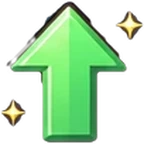
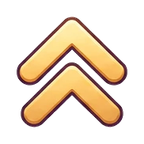
아래 메뉴 새 아이콘·디자인

diff --git a/sw.js b/sw.js
@@ -1,5 +1,5 @@
 // 별빛 냥법사 offline cache — version changes whenever any game file changes
-const VERSION = '68fc3ebb81';
+const VERSION = '4803bca3b4';
 const CACHE = 'cw-' + VERSION, EXTRA = 'cw-cdn';
 const LOCAL = ["./","index.html","manifest.webmanifest","js/num.js","js/data.js","js/economy.js","js/level.js","js/look.js","js/progress.js","js/stage-rewards.js","js/skills.js","js/gear.js","js/gacha.js","js/relics.js","js/costume.js","js/divine.js","js/training.js","js/dungeon.js","js/runes.js","js/titles.js","js/sigil.js","js/alchemy.js","js/packs.js","js/state.js","js/bestiary.js","js/rig-bodies.js","js/rig.js","js/staff-split.js","js/art.js","js/world.js","js/timescale.js","js/scene.js","js/vfx.js","js/fx3d.js","js/fx.js","js/fx-more.js","js/fx-beasts.js","js/sfx-map.js","js/sound.js","js/icons.js","js/icons-more.js","js/icons-skills.js","js/art-icons.js","js/art-items.js","js/design-cream.js","js/ui.js","js/main.js","art/b01.webp","art/b02.webp","art/b03.webp","art/b04.webp","art/b05.webp","art/b06.webp","art/b07.webp","art/b08.webp","art/b09.webp","art/b10.webp","art/b11.webp","art/b12.webp","art/b13.webp","art/b14.webp","art/b15.webp","art/b16.webp","art/b17.webp","art/b18.webp","art/b19.webp","art/b20.webp","art/b21.webp","art/b22.webp","art/b23.webp","art/b24.webp","art/b25.webp","art/b26.webp","art/b27.webp","art/b28.webp","art/b29.webp","art/b30.webp","art/b31.webp","art/b32.webp","art/b33.webp","art/b34.webp","art/b35.webp","art/b36.webp","art/b37.webp","art/b38.webp","art/b39.webp","art/b40.webp","art/b41.webp","art/b42.webp","art/b43.webp","art/b44.webp","art/b45.webp","art/b46.webp","art/b47.webp","art/b48.webp","art/b49.webp","art/b50.webp","art/b51.webp","art/b52.webp","art/b53.webp","art/b54.webp","art/b55.webp","art/b56.webp","art/b57.webp","art/b58.webp","art/b59.webp","art/b60.webp","art/b61.webp","art/b62.webp","art/b63.webp","art/b64.webp","art/b65.webp","art/b66.webp","art/b67.webp","art/b68.webp","art/b69.webp","art/b70.webp","art/b71.webp","art/b72.webp","art/b73.webp","art/b74.webp","art/b75.webp","art/b76.webp","art/b77.webp","art/b78.webp","art/b79.webp","art/b80.webp","art/beast-phoenix.webp","art/c01.webp","art/c02.webp","art/c03.webp","art/c04.webp","art/c05.webp","art/c06.webp","art/c07.webp","art/c08.webp","art/c09.webp","art/c10.webp","art/c11.webp","art/c12.webp","art/c13.webp","art/c14.webp","art/c15.webp","art/c16.webp","art/c17.webp","art/c18.webp","art/c19.webp","art/c20.webp","art/cos1.webp","art/cos10.webp","art/cos11.webp","art/cos12.webp","art/cos13.webp","art/cos14.webp","art/cos15.webp","art/cos16.webp","art/cos17.webp","art/cos18.webp","art/cos2.webp","art/cos3.webp","art/cos4.webp","art/cos5.webp","art/cos6.webp","art/cos7.webp","art/cos8.webp","art/cos9.webp","art/d01.webp","art/d02.webp","art/d03.webp","art/d04.webp","art/d05.webp","art/d06.webp","art/d07.webp","art/d08.webp","art/d09.webp","art/d10.webp","art/dv-charm-1.webp","art/dv-charm-2.webp","art/dv-charm-3.webp","art/dv-robe-1.webp","art/dv-robe-2.webp","art/dv-robe-3.webp","art/dv-staff-1.webp","art/dv-staff-2.webp","art/dv-staff-3.webp","art/f01.webp","art/f02.webp","art/f03.webp","art/f04.webp","art/f05.webp","art/f06.webp","art/f07.webp","art/f08.webp","art/f09.webp","art/f10.webp","art/fx-blackHole.webp","art/fx-chainLightning.webp","art/fx-elementNova.webp","art/fx-fireball-ball.webp","art/fx-fireball-blast.webp","art/fx-fireball.webp","art/fx-furBomb.webp","art/fx-iceStorm-shard.webp","art/fx-iceStorm.webp","art/fx-magicClaw.webp","art/fx-meteorRain-ripple.webp","art/fx-meteorRain-rock.webp","art/fx-meteorRain.webp","art/fx-moonLaser.webp","art/fx-solarBurst.webp","art/fx-sparkRing.webp","art/fx-starShot-burst.webp","art/fx-starShot-star.webp","art/fx-starShot.webp","art/g-belt.webp","art/g-ear.webp","art/g-hat.webp","art/g-necklace.webp","art/g-ring.webp","art/g-robe.webp","art/g-staff.webp","art/g01.webp","art/g02.webp","art/g03.webp","art/g04.webp","art/g05.webp","art/g06.webp","art/g07.webp","art/g08.webp","art/g09.webp","art/g10.webp","art/gi-belt-1.webp","art/gi-belt-2.webp","art/gi-belt-3.webp","art/gi-belt-4.webp","art/gi-belt-5.webp","art/gi-ear-1.webp","art/gi-ear-2.webp","art/gi-ear-3.webp","art/gi-ear-4.webp","art/gi-ear-5.webp","art/gi-hat-1.webp","art/gi-hat-2.webp","art/gi-hat-3.webp","art/gi-hat-4.webp","art/gi-hat-5.webp","art/gi-necklace-1.webp","art/gi-necklace-2.webp","art/gi-necklace-3.webp","art/gi-necklace-4.webp","art/gi-necklace-5.webp","art/gi-ring-1.webp","art/gi-ring-2.webp","art/gi-ring-3.webp","art/gi-ring-4.webp","art/gi-ring-5.webp","art/gi-robe-1.webp","art/gi-robe-2.webp","art/gi-robe-3.webp","art/gi-robe-4.webp","art/gi-robe-5.webp","art/gi-staff-1.webp","art/gi-staff-2.webp","art/gi-staff-3.webp","art/gi-staff-4.webp","art/gi-staff-5.webp","art/hero-cheese.webp","art/hero.webp","art/i01.webp","art/i02.webp","art/i03.webp","art/i04.webp","art/i05.webp","art/ic-gem.webp","art/ic-gold.webp","art/ic-rune.webp","art/ic-sigil.webp","art/ic-xp.webp","art/k01.webp","art/k02.webp","art/k03.webp","art/k04.webp","art/k05.webp","art/k06.webp","art/k07.webp","art/k08.webp","art/k09.webp","art/k10.webp","art/l06.webp","art/l07.webp","art/l08.webp","art/l09.webp","art/l10.webp","art/m101.webp","art/m102.webp","art/m103.webp","art/m104.webp","art/m105.webp","art/m106.webp","art/m107.webp","art/m108.webp","art/m109.webp","art/m110.webp","art/m111.webp","art/m112.webp","art/m113.webp","art/m114.webp","art/m115.webp","art/m116.webp","art/m117.webp","art/m118.webp","art/m119.webp","art/m120.webp","art/m121.webp","art/m122.webp","art/m123.webp","art/m124.webp","art/m125.webp","art/m126.webp","art/m127.webp","art/m128.webp","art/m129.webp","art/m130.webp","art/m131.webp","art/m132.webp","art/m133.webp","art/m134.webp","art/m135.webp","art/m136.webp","art/m137.webp","art/m138.webp","art/m139.webp","art/m140.webp","art/o01.webp","art/o02.webp","art/o03.webp","art/o04.webp","art/o05.webp","art/o06.webp","art/o07.webp","art/o08.webp","art/o09.webp","art/o10.webp","art/rl-bookmark.webp","art/rl-catEye.webp","art/rl-clawRing.webp","art/rl-cometShard.webp","art/rl-dawnCrystal.webp","art/rl-galaxyDaggers.webp","art/rl-grassCharm.webp","art/rl-hourglass.webp","art/rl-hunterBadge.webp","art/rl-kingScepter.webp","art/rl-moonBell.webp","art/rl-pawHammer.webp","art/rl-piggyBank.webp","art/rl-sleepyPillow.webp","art/rl-starFeather.webp","art/rl-windChime.webp","art/rn-rBolt-1.webp","art/rn-rBolt-2.webp","art/rn-rBolt-3.webp","art/rn-rComet-1.webp","art/rn-rComet-2.webp","art/rn-rComet-3.webp","art/rn-rDark-1.webp","art/rn-rDark-2.webp","art/rn-rDark-3.webp","art/rn-rEarth-1.webp","art/rn-rEarth-2.webp","art/rn-rEarth-3.webp","art/rn-rFire-1.webp","art/rn-rFire-2.webp","art/rn-rFire-3.webp","art/rn-rLight-1.webp","art/rn-rLight-2.webp","art/rn-rLight-3.webp","art/rn-rNebula-1.webp","art/rn-rNebula-2.webp","art/rn-rNebula-3.webp","art/rn-rOrigin-1.webp","art/rn-rOrigin-2.webp","art/rn-rOrigin-3.webp","art/rn-rWave-1.webp","art/rn-rWave-2.webp","art/rn-rWave-3.webp","art/rn-rWind-1.webp","art/rn-rWind-2.webp","art/rn-rWind-3.webp","art/s01.webp","art/s02.webp","art/s03.webp","art/s04.webp","art/s05.webp","art/s06.webp","art/s07.webp","art/s08.webp","art/s09.webp","art/s10.webp","art/sg-bolt-0.webp","art/sg-bolt-1.webp","art/sg-bolt-10.webp","art/sg-bolt-2.webp","art/sg-bolt-3.webp","art/sg-bolt-4.webp","art/sg-bolt-5.webp","art/sg-bolt-6.webp","art/sg-bolt-7.webp","art/sg-bolt-8.webp","art/sg-bolt-9.webp","art/sg-paw-0.webp","art/sg-paw-1.webp","art/sg-paw-10.webp","art/sg-paw-2.webp","art/sg-paw-3.webp","art/sg-paw-4.webp","art/sg-paw-5.webp","art/sg-paw-6.webp","art/sg-paw-7.webp","art/sg-paw-8.webp","art/sg-paw-9.webp","art/sk-ballLightning.webp","art/sk-blackHole.webp","art/sk-chainLightning.webp","art/sk-cometStrike.webp","art/sk-constellation.webp","art/sk-coronaRing.webp","art/sk-crescentWave.webp","art/sk-darkStar.webp","art/sk-elementNova.webp","art/sk-elementStorm.webp","art/sk-elementWheel.webp","art/sk-featherRain.webp","art/sk-fireball.webp","art/sk-flamePillar.webp","art/sk-flameWave.webp","art/sk-frostNova.webp","art/sk-furBomb.webp","art/sk-glacierSpikes.webp","art/sk-gravityCrush.webp","art/sk-iceLance.webp","art/sk-iceStorm.webp","art/sk-inferno.webp","art/sk-magicClaw.webp","art/sk-meteorRain.webp","art/sk-moonFall.webp","art/sk-moonLaser.webp","art/sk-moonOrbs.webp","art/sk-pawStamp.webp","art/sk-phoenixDive.webp","art/sk-phoenixWings.webp","art/sk-prismBeam.webp","art/sk-rebirthFlame.webp","art/sk-solarBurst.webp","art/sk-sparkRing.webp","art/sk-starBarrage.webp","art/sk-starDust.webp","art/sk-starShot.webp","art/sk-stormCloud.webp","art/sk-sunArrows.webp","art/sk-sunSpear.webp","art/sk-thunderStrike.webp","art/sk-voidRift.webp","art/sk-yarnBall.webp","art/tr-alchemy-cauldron.webp","art/tr-currency-gold.webp","art/tr-currency-mana.webp","art/tr-growth-alpha-crit.webp","art/tr-growth-alpha-dmg.webp","art/tr-growth-atk.webp","art/tr-growth-crit-dmg.webp","art/tr-growth-crit.webp","art/tr-growth-gold.webp","art/tr-growth-hyper-crit.webp","art/tr-growth-mastery.webp","art/tr-growth-mega-crit.webp","art/tr-growth-mega-dmg.webp","art/tr-growth-speed.webp","art/tr-growth-super-crit.webp","art/tr-growth-ultimate-crit.webp","art/tr-growth-ultimate-dmg.webp","art/tr-growth-ultra-crit.webp","art/tr-mana-circle.webp","art/tr-mark-book.webp","art/tr-mark-claw.webp","art/tr-mark-comet.webp","art/tr-mark-crown.webp","art/tr-mark-moon.webp","art/tr-mark-star.webp","art/tr-menu-training.webp","art/tr-pk-growth-arcane.webp","art/tr-pk-growth-catEye.webp","art/tr-pk-growth-doomClaw.webp","art/tr-pk-growth-elemRule.webp","art/tr-pk-growth-haste.webp","art/tr-pk-growth-judge.webp","art/tr-pk-growth-manaBurst.webp","art/tr-pk-growth-origin.webp","art/tr-pk-growth-resonance.webp","art/tr-pk-growth-rift.webp","art/tr-pk-mark-mArcane.webp","art/tr-pk-mark-mJudge.webp","art/tr-pk-pack-dailyGem.webp","art/tr-pk-pack-gear10.webp","art/tr-pk-pack-gear100.webp","art/tr-pk-pack-gear30.webp","art/tr-pk-pack-goldL.webp","art/tr-pk-pack-goldS.webp","art/tr-pk-pack-grow.webp","art/tr-pk-pack-potion.webp","art/tr-pk-pack-tier10.webp","art/tr-pk-pack-tier5.webp","art/tr-pk-pack-tier8.webp","art/tr-pk-talent-tManaBurst.webp","art/tr-pk-talent-tOrigin.webp","art/tr-pk-talent-tRift.webp","art/tr-potion-luck.webp","art/tr-potion-rage.webp","art/tr-potion-wisdom.webp","art/tr-rank-star.webp","art/tr-state-lock.webp","art/tr-talent-boss-hunter.webp","art/tr-talent-curious-eyes.webp","art/tr-talent-golden-whiskers.webp","art/tr-talent-mana-focus.webp","art/tr-talent-sharp-claws.webp","art/tr-talent-surge.webp","art/tr-talent-weak-point.webp","art/ui-card-back.webp","art/ui-cauldron.webp","art/ui-chest-closed.webp","art/ui-chest-open.webp","art/ui-circle.webp","art/ui-dungeon-gem.webp","art/ui-dungeon-gold.webp","art/ui-dungeon-mana.webp","art/ui-dungeon-rune.webp","art/ui-gacha.webp","art/ui-lock.webp","art/ui-map-lock.webp","art/ui-map-open.webp","art/ui-map.webp","art/ui-mark-mClaw.webp","art/ui-mark-mComet.webp","art/ui-mark-mCrown.webp","art/ui-mark-mMoon.webp","art/ui-mark-mStar.webp","art/ui-paw.webp","art/ui-potion-luck.webp","art/ui-potion-rage.webp","art/ui-potion-wisdom.webp","art/ui-rune-leaf.webp","art/ui-rune-rDark.webp","art/ui-rune-rEarth.webp","art/ui-rune-rFire.webp","art/ui-rune-rLight.webp","art/ui-rune-rWave.webp","art/ui-rune-rWind.webp","art/ui-tab-battle.webp","art/ui-tab-dungeon.webp","art/ui-tab-gacha.webp","art/ui-tab-gear.webp","art/ui-tab-more.webp","art/ui-tab-skill.webp","art/ui-tab-up.webp","art/ui-talent-room.webp","art/ui-talent-tBoss.webp","art/ui-talent-tCrit.webp","art/ui-talent-tSkill.webp","art/ui-welcome-cat.webp","art/v01.webp","art/v02.webp","art/v03.webp","art/v04.webp","art/v05.webp","art/v06.webp","art/v07.webp","art/v08.webp","art/v09.webp","art/v10.webp","sfx/beam-1.m4a","sfx/beam-2.m4a","sfx/beam-3.m4a","sfx/bigboom-1.m4a","sfx/bigboom-2.m4a","sfx/bolt-1.m4a","sfx/bolt-2.m4a","sfx/bolt-3.m4a","sfx/bolt-4.m4a","sfx/bolt-5.m4a","sfx/boom-1.m4a","sfx/boom-2.m4a","sfx/boom-3.m4a","sfx/boom-4.m4a","sfx/boom-5.m4a","sfx/claw-1.m4a","sfx/claw-2.m4a","sfx/claw-3.m4a","sfx/fire-1.m4a","sfx/fire-2.m4a","sfx/fire-3.m4a","sfx/fire-4.m4a","sfx/fire-5.m4a","sfx/hum-1.m4a","sfx/hum-2.m4a","sfx/ice-1.m4a","sfx/ice-2.m4a","sfx/ice-3.m4a","sfx/ice-4.m4a","sfx/ice-5.m4a","sfx/pop-1.m4a","sfx/pop-2.m4a","sfx/pop-3.m4a","sfx/punch-1.m4a","sfx/punch-2.m4a","sfx/punch-3.m4a","sfx/shatter-1.m4a","sfx/shatter-2.m4a","sfx/shatter-3.m4a","sfx/shimmer-1.m4a","sfx/shimmer-2.m4a","sfx/shimmer-3.m4a","sfx/tap-1.m4a","sfx/tap-2.m4a","sfx/tap-3.m4a","sfx/thud-1.m4a","sfx/thud-2.m4a","sfx/thud-3.m4a","sfx/water-1.m4a","sfx/water-2.m4a","sfx/water-3.m4a","sfx/whoosh-1.m4a","sfx/whoosh-2.m4a","sfx/whoosh-3.m4a","sfx/zap-1.m4a","sfx/zap-2.m4a","sfx/zap-3.m4a","icons/icon-192.png","icons/icon-512.png","icons/apple-touch-icon.png"];
 const THREE = 'https://cdnjs.cloudflare.com/ajax/libs/three.js/r128/three.min.js';

diff --git a/index.html b/index.html
@@ -1384,6 +1384,18 @@ img.ico.pic{object-fit:contain;-webkit-user-drag:none;user-select:none}
 .bagtop .pnote{display:flex;align-items:center;justify-content:center;gap:8px;margin-top:2px;padding-top:9px;border-top:1.5px solid #E2D4BE;font:700 12px/1.5 var(--body);color:#6f6356}
 .bagtop .pnote .plocknote{width:24px;height:24px;flex:none}
 .bagtop .pcost{white-space:nowrap}.bagtop .pcost .gem{display:inline-block;width:14px;height:14px;vertical-align:-2px;margin-right:2px}
+/* bottom menu (2026-11-15): after the "Navigation icon redesign" picture the user sent: cream bar with rounded top,
+   seven equal columns, the painted icons at the same size, dark brown labels, the chosen one plum with a gold line under it */
+:root{--tabh:58px}
+#tabs{gap:0;padding:6px max(6px,env(safe-area-inset-right,0px)) max(4px,calc(env(safe-area-inset-bottom,0px) - 14px)) max(6px,env(safe-area-inset-left,0px));background:#FCF6EE;border-radius:22px 22px 0 0;box-shadow:0 -1.5px 0 #EADCC6,0 -6px 18px rgba(80,55,40,.14)}
+#tabs::before{display:none}
+#tabs button{display:flex;flex-direction:column;align-items:center;justify-content:flex-start;gap:2px;min-height:52px;padding:0;border-radius:0;background:none;font:700 11px/1.15 var(--body);letter-spacing:-.02em;color:#4b3b35;position:relative}
+#tabs img.ico{width:32px;height:32px;transform:none;filter:drop-shadow(0 1.5px 1px rgba(80,55,40,.22))}
+#tabs button[aria-selected=true]{color:#6a2c6e;background:none}
+#tabs button[aria-selected=true] img.ico{transform:none;filter:drop-shadow(0 1.5px 1px rgba(80,55,40,.22))}
+#tabs button::after{content:'';position:absolute;left:50%;bottom:1px;width:30px;height:3px;margin-left:-15px;border-radius:3px;background:transparent}
+#tabs button[aria-selected=true]::after{left:50%;right:auto;background:#E3B24E}
+#tabs button span{display:block;padding-bottom:7px}
 </style>
 
 <div id="topcap" aria-hidden="true"></div>

diff --git a/js/design-cream.js b/js/design-cream.js
@@ -18,7 +18,6 @@
     pack: { dailyGem: 'pk-pack-dailyGem', goldS: 'pk-pack-goldS', goldL: 'pk-pack-goldL', potion: 'pk-pack-potion', grow: 'pk-pack-grow',
       gear10: 'pk-pack-gear10', gear30: 'pk-pack-gear30', gear100: 'pk-pack-gear100', tier5: 'pk-pack-tier5', tier8: 'pk-pack-tier8', tier10: 'pk-pack-tier10' },
     potion: { rage: 'potion-rage', luck: 'potion-luck', wisdom: 'potion-wisdom' },
-    tab: { up: 'menu-training' },
     cur: { mana: 'currency-mana' },
     pic: { lock: 'state-lock', cauldron: 'alchemy-cauldron' }
   };
@@ -76,7 +75,7 @@
   var CW = root.CW, I = CW && CW.ICO; if (!I) return;
   var B = CW.ART_BASE || 'art/';
   function img(name, cls) { return '<img class="ico pic ' + cls + '" src="' + B + 'tr-' + name + '.webp" alt="" draggable="false">'; }
-  var stat0 = I.stat, misc0 = I.misc, cur0 = I.cur, pic0 = I.pic, MISC = ['talent', 'mark', 'potion', 'tab', 'pack'];
+  var stat0 = I.stat, misc0 = I.misc, cur0 = I.cur, pic0 = I.pic, MISC = ['talent', 'mark', 'potion', 'pack'];
   I.stat = function (k) { return MAP.stat[k] ? img(MAP.stat[k], 'imisc tr') : stat0(k); };
   I.misc = function (cat, id) { return MISC.indexOf(cat) >= 0 && MAP[cat][id] ? img(MAP[cat][id], 'imisc tr p-' + cat) : misc0(cat, id); };
   I.cur = function (k) { return MAP.cur[k] ? img(MAP.cur[k], 'icur tr') : cur0(k); };
